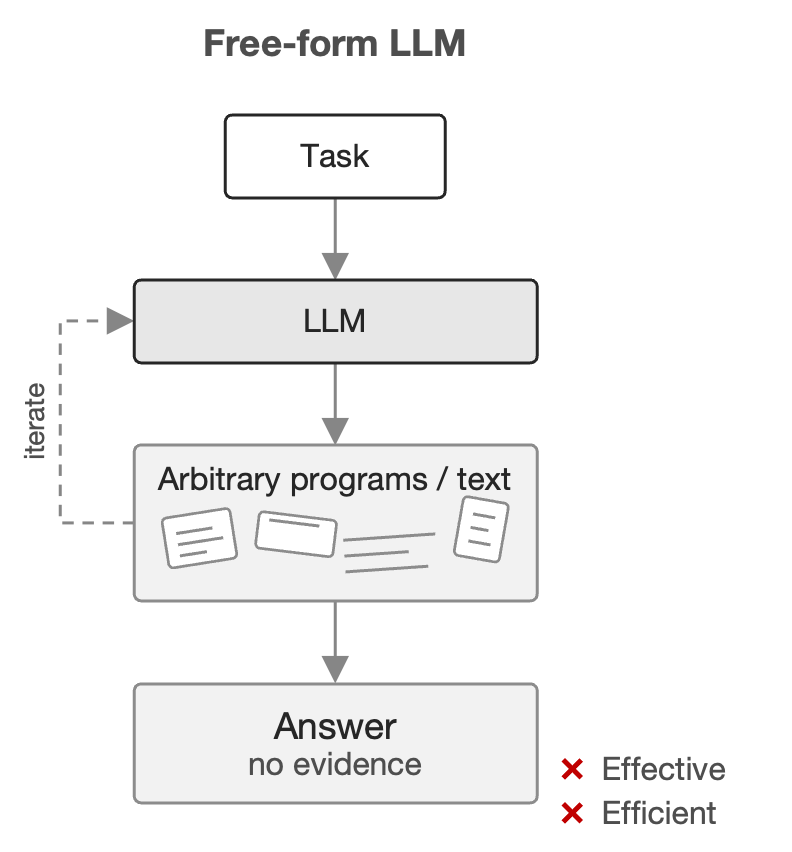
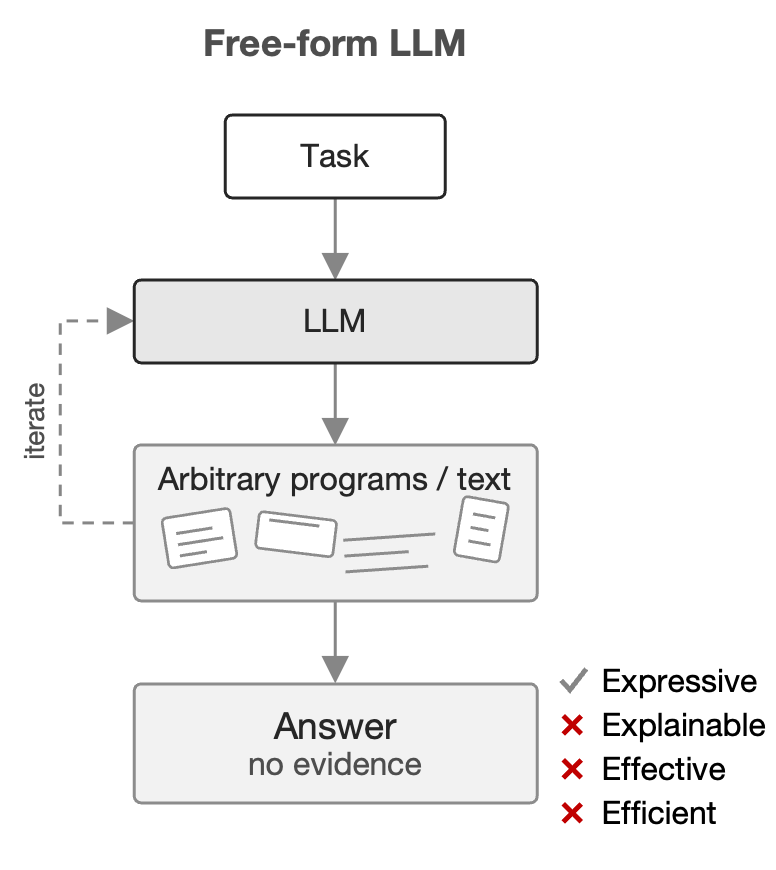
Update the Fig. 1 free-form LLM diagram
Swap in the new free-form LLM image, trimmed of its built-in divider since the
figure layout draws its own, and match the alt text to its four labels.

Changed region(s): [[0.0309, 0.1221, 0.9897, 0.9765], [0.2474, 0.0305, 0.6186, 0.0915]]

diff --git a/_posts/2026-10-05-making-agents-more-reliable-with-constrained-creativity.md b/_posts/2026-10-05-making-agents-more-reliable-with-constrained-creativity.md
@@ -25,7 +25,7 @@ description: Giving AI agents unlimited freedom makes them expensive and hard to
 </div>
 
 <div class="figure figure-compare figure-card">
-  <img src="{{ '/assets/img/posts/constrained-creativity/free-form-llm.png' | relative_url }}" alt="Free-form LLM: a task goes to an LLM that iterates on arbitrary programs or text and returns an answer with no evidence; it is neither effective nor efficient.">
+  <img src="{{ '/assets/img/posts/constrained-creativity/free-form-llm.png' | relative_url }}" alt="Free-form LLM: a task goes to an LLM that iterates on arbitrary programs or text and returns an answer with no evidence; it is expressive, but not explainable, effective or efficient.">
   <div class="figure-divider" aria-hidden="true"></div>
   <img src="{{ '/assets/img/posts/constrained-creativity/cc-structure.png' | relative_url }}" alt="Constrained Creativity: the task feeds the LLM and selects a DSL or playbook that also feeds the LLM; the LLM iterates on a DSL program executed by a DSL runtime engine and returns an answer with evidence; it is expressive, explainable, effective and efficient.">
 </div>
